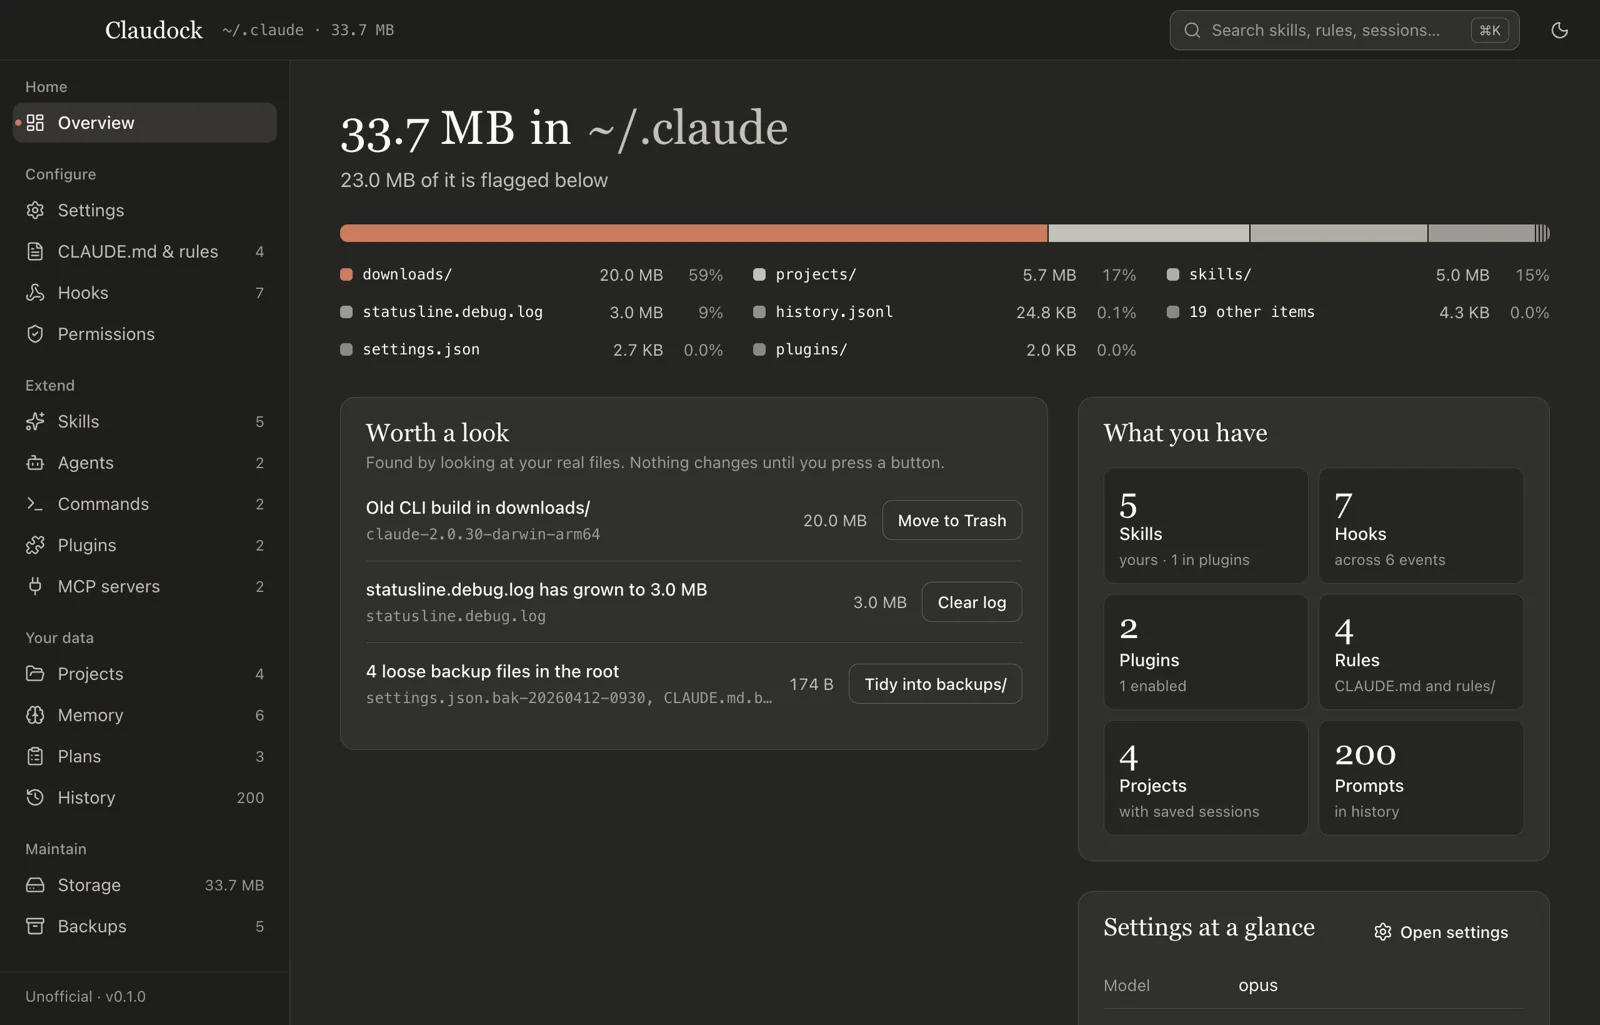
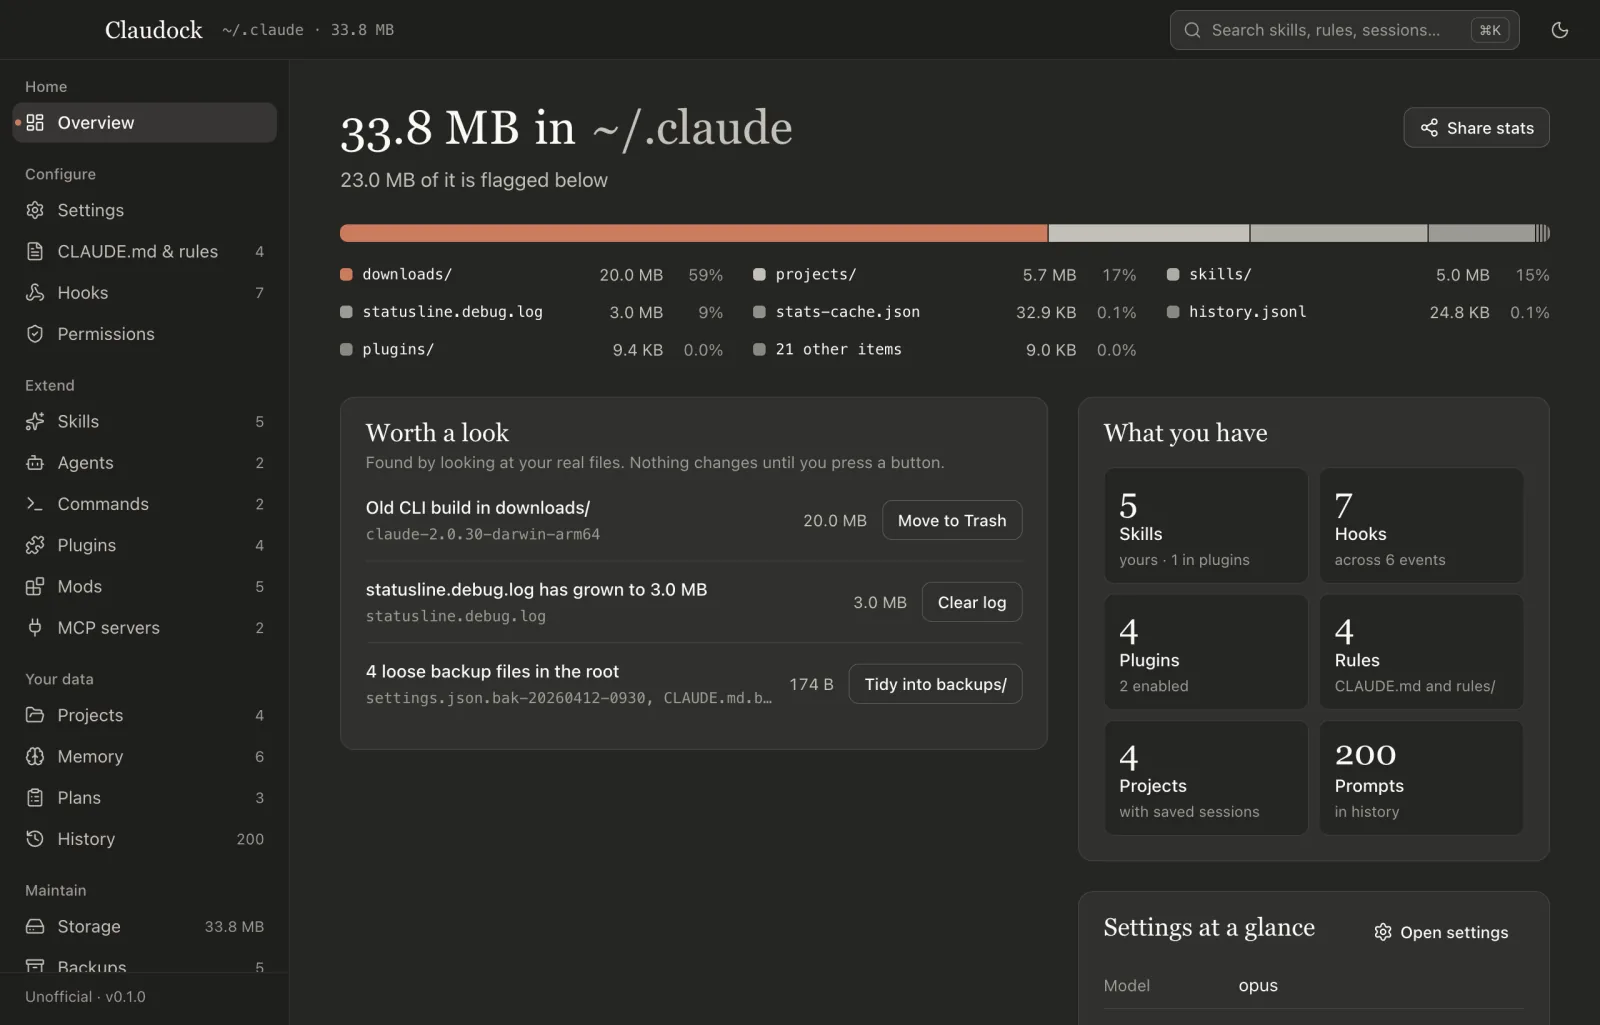
Update the website screenshots and add Mods to the hero
Fresh screenshots of Overview, Skills, Settings and Storage from the
current app (Mods in the sidebar), plus a Mods screenshot as the second
screen in the hero. The terminal listing gains dev-mods/, which lands on the
Mods label; the label positions and the camera's starting zoom follow the
new sidebar.

diff --git a/site/motion.js b/site/motion.js
@@ -22,12 +22,13 @@
   var FILES = [
     ['settings.json', 'Settings', 0.2049], ['CLAUDE.md', 'CLAUDE.md & rules', 0.2449], ['hooks/', 'Hooks', 0.2849],
     ['skills/', 'Skills', 0.4107], ['agents/', 'Agents', 0.4507], ['commands/', 'Commands', 0.4907],
-    ['plugins/', 'Plugins', 0.5317], ['projects/', 'Projects', 0.6566], ['plans/', 'Plans', 0.7376], ['history.jsonl', 'History', 0.7776]
+    ['plugins/', 'Plugins', 0.5317], ['dev-mods/', 'Mods', 0.5717], ['projects/', 'Projects', 0.6976], ['plans/', 'Plans', 0.7776],
+    ['history.jsonl', 'History', 0.8176]
   ]
   var LABEL_X = 58 / 1600 // labels' left edge
   var LABEL_FS = 18 / 1600 // labels' font size
-  var ZOOM = 1.5 // the camera starts at 1.5x on the sidebar, showing y 0.12 to 0.79 of the screenshot
-  var ZOOM_Y = 0.12
+  var ZOOM = 1.4 // the camera starts at 1.4x on the sidebar, showing y 0.15 to 0.86 of the screenshot
+  var ZOOM_Y = 0.15
 
   // Safe by design: camera (snapshot), document (atomic write), trash, lock, all in a 100x100 box
   var ICONS = [
@@ -82,7 +83,7 @@
     var screens = $$('.screen')
     var caps = $$('.cap')
     var fs = Math.max(9, W * LABEL_FS * ZOOM)
-    var start = function (i) { return { x: W * 0.06, y: H * (0.22 + i * 0.062) } }
+    var start = function (i) { return { x: W * 0.06, y: H * (0.22 + i * 0.058) } }
     var end = function (i) { return { x: W * LABEL_X * ZOOM, y: (FILES[i][2] - ZOOM_Y) * ZOOM * H } }
 
     $('#prompt').style.fontSize = fs + 'px'
@@ -108,7 +109,7 @@
     // on scroll: files fly onto the sidebar, the terminal gives way to the app, the camera pulls back, the screens change
     var short = innerWidth < 700
     var tl = gsap.timeline({
-      scrollTrigger: { trigger: '#hero', start: short ? 'top 64px' : 'top top', end: function () { return '+=' + innerHeight * (short ? 3.2 : 4.2) }, pin: true, scrub: 0.8 }
+      scrollTrigger: { trigger: '#hero', start: short ? 'top 64px' : 'top top', end: function () { return '+=' + innerHeight * (short ? 3.8 : 5) }, pin: true, scrub: 0.8 }
     })
     tl.to('.hero-intro', { autoAlpha: 0, y: -40, duration: 0.5 }, 0)
       .to('#prompt', { autoAlpha: 0, duration: 0.3 }, 0.1)

diff --git a/site/index.html b/site/index.html
@@ -81,6 +81,7 @@
       </div>
       <div class="caps" aria-hidden="true">
         <p class="cap">Overview</p>
+        <p class="cap">Mods</p>
         <p class="cap">Skills</p>
         <p class="cap">Settings</p>
         <p class="cap">Storage</p>
@@ -92,6 +93,10 @@
         <picture class="screen">
           <source media="(prefers-color-scheme: dark)" srcset="assets/shot-overview-dark.webp">
           <img src="assets/shot-overview-light.webp" alt="Overview: disk use per folder, cleanup suggestions and counts of skills, hooks, plugins and rules" width="1600" height="1025">
+        </picture>
+        <picture class="screen">
+          <source media="(prefers-color-scheme: dark)" srcset="assets/shot-mods-dark.webp">
+          <img src="assets/shot-mods-light.webp" alt="Mods: installed mods, mods loaded from folders and drafts, with what the selected mod draws, hooks and reaches" width="1600" height="1025">
         </picture>
         <picture class="screen">
           <source media="(prefers-color-scheme: dark)" srcset="assets/shot-skills-dark.webp">
